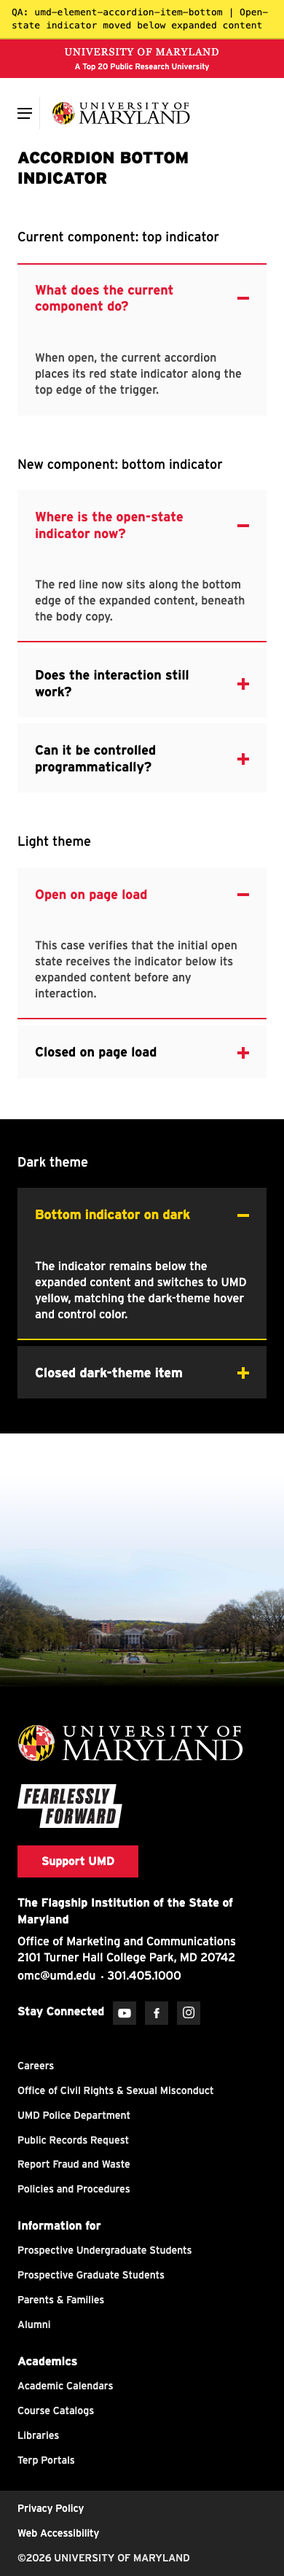
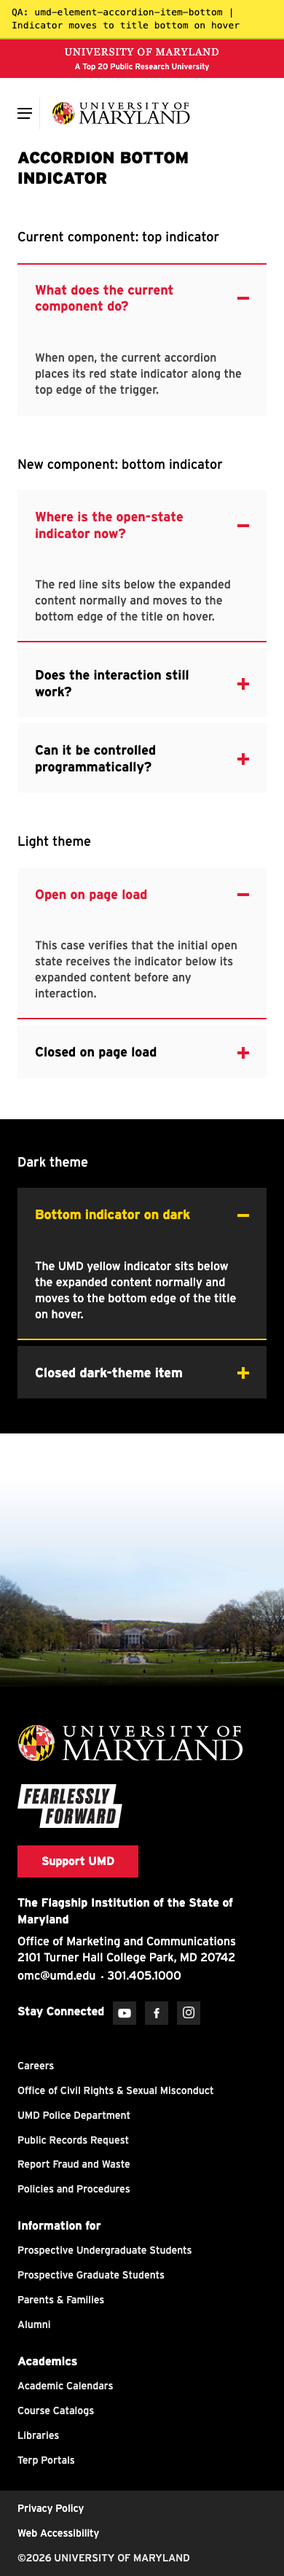
Move accordion indicators to title on hover

diff --git a/qa/accordion-bottom.html b/qa/accordion-bottom.html
@@ -541,11 +541,11 @@
 
   <script>window.process = { env: {} };</script>
   <script src="../public/umd-components.js"></script>
-  <script type="module" src="../src/accordion-bottom.js?v=dark-yellow-2"></script>
+  <script type="module" src="../src/accordion-bottom.js?v=hover-title-1"></script>
 </head>
 <body>
   <div style="background:#ffeb3b;color:#000;padding:8px 16px;font:13px/1.4 monospace;border-bottom:2px solid rgba(0,0,0,.2);position:sticky;top:0;z-index:9999;">
-    QA: umd-element-accordion-item-bottom | Open-state indicator moved below expanded content
+    QA: umd-element-accordion-item-bottom | Indicator moves to title bottom on hover
   </div>
 
   <umd-element-navigation-utility data-alert-off="true" role="navigation" aria-label="Utility navigation"></umd-element-navigation-utility>
@@ -584,7 +584,7 @@
           <span slot="eyebrow">Component QA</span>
           <h1 slot="headline">Accordion bottom indicator</h1>
           <div slot="text">
-            <p>The new component preserves the current UMD accordion behavior and moves the two-pixel red open-state line from the top edge of the trigger to the bottom of the expanded content.</p>
+            <p>The new component places the open-state indicator below the expanded content, then moves it to the bottom of the title while the title is hovered.</p>
           </div>
         </umd-element-section-intro-wide>
       </div>
@@ -611,7 +611,7 @@
           <umd-element-accordion-item-bottom data-visual-open="true">
             <p slot="headline">Where is the open-state indicator now?</p>
             <div slot="text">
-              <p>The red line now sits along the bottom edge of the expanded content, beneath the body copy.</p>
+              <p>The red line sits below the expanded content normally and moves to the bottom edge of the title on hover.</p>
             </div>
           </umd-element-accordion-item-bottom>
           <umd-element-accordion-item-bottom>
@@ -657,7 +657,7 @@
           <umd-element-accordion-item-bottom data-theme="dark" data-visual-open="true">
             <p slot="headline">Bottom indicator on dark</p>
             <div slot="text">
-              <p>The indicator remains below the expanded content and switches to UMD yellow, matching the dark-theme hover and control color.</p>
+              <p>The UMD yellow indicator sits below the expanded content normally and moves to the bottom edge of the title on hover.</p>
             </div>
           </umd-element-accordion-item-bottom>
           <umd-element-accordion-item-bottom data-theme="dark">

diff --git a/src/accordion-bottom.js b/src/accordion-bottom.js
@@ -17,9 +17,28 @@ const bottomIndicatorStyles = `
     box-shadow: inset 0 -2px 0 #e21833;
   }
 
+  .accordion-headline[aria-expanded]:hover {
+    border-top-color: transparent !important;
+    box-shadow: inset 0 -2px 0 #e21833;
+  }
+
+  .accordion-headline[aria-expanded='true']:hover + .accordion-body-wrapper {
+    box-shadow: none;
+  }
+
   :host([data-theme='dark'])
     .accordion-headline[aria-expanded='true'] + .accordion-body-wrapper {
     box-shadow: inset 0 -2px 0 #FFD200;
+  }
+
+  :host([data-theme='dark'])
+    .accordion-headline[aria-expanded]:hover {
+    box-shadow: inset 0 -2px 0 #FFD200;
+  }
+
+  :host([data-theme='dark'])
+    .accordion-headline[aria-expanded='true']:hover + .accordion-body-wrapper {
+    box-shadow: none;
   }
 `;
 

diff --git a/test/accordion-bottom.test.js b/test/accordion-bottom.test.js
@@ -34,6 +34,17 @@ test('uses the UMD yellow indicator in the dark theme', () => {
   assert.match(componentSource, /inset 0 -2px 0 #FFD200/);
 });
 
+test('moves the indicator to the title bottom on hover', () => {
+  assert.match(
+    componentSource,
+    /\.accordion-headline\[aria-expanded\]:hover \{/,
+  );
+  assert.match(
+    componentSource,
+    /:hover \+ \.accordion-body-wrapper \{\s+box-shadow: none/,
+  );
+});
+
 test('QA page includes current and new accordion comparisons', () => {
   assert.match(qaPage, /Current component: top indicator/);
   assert.match(qaPage, /New component: bottom indicator/);

diff --git a/README.md b/README.md
@@ -5,7 +5,8 @@ current UMD `umd-element-accordion-item`. It keeps the existing slots,
 attributes, animation, keyboard behavior, and ARIA state, while moving the red
 open-state line from the top of the trigger to the bottom of the expanded
 content. The indicator is UMD red in the light theme and UMD yellow in the dark
-theme.
+theme. On hover, the indicator appears at the bottom of the title; for expanded
+items, it returns below the content when hover ends.
 
 ## Run the QA page
 
